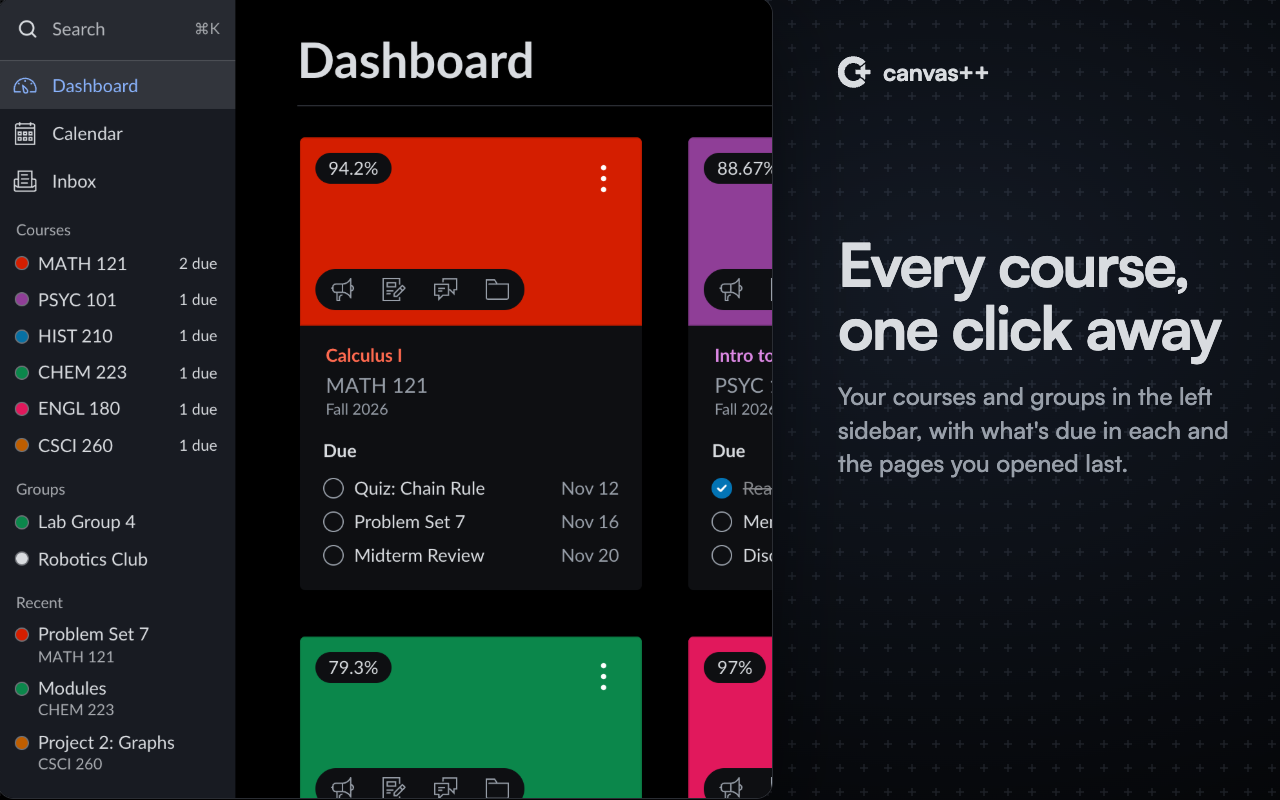
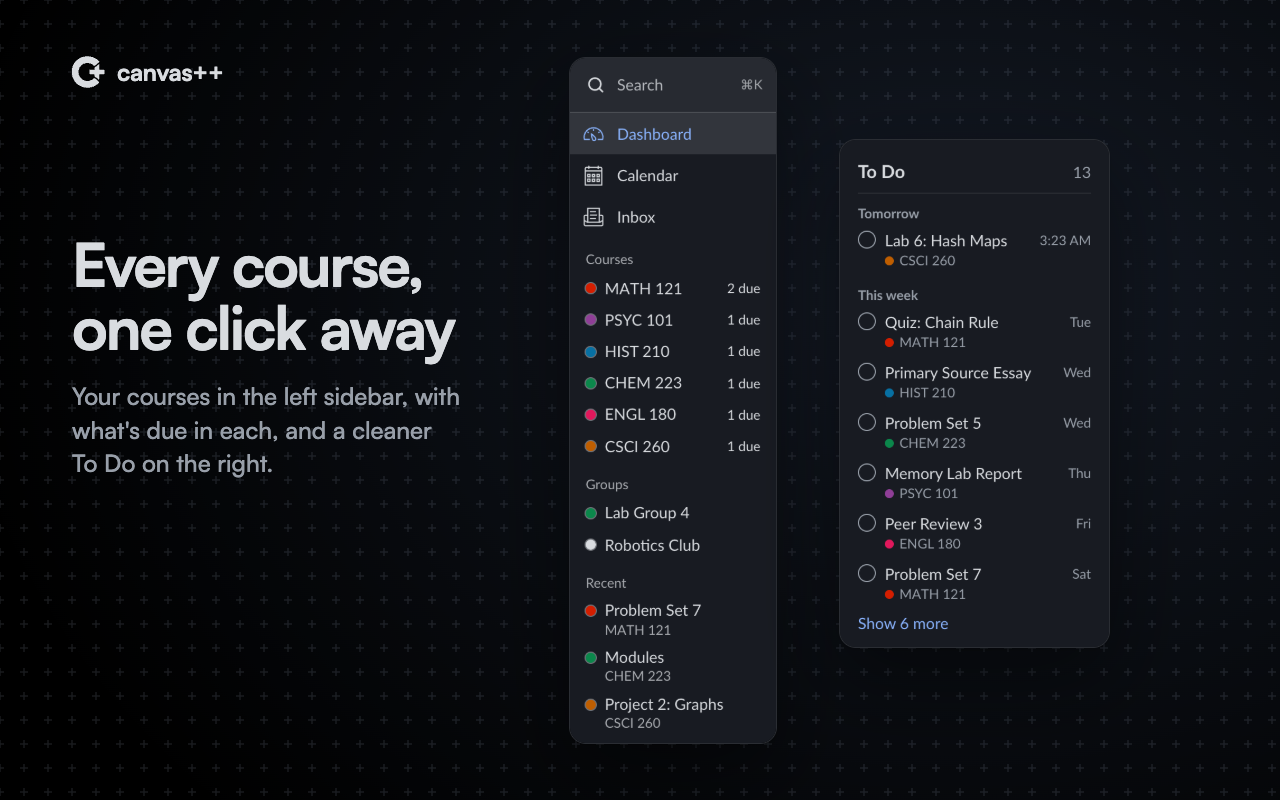
Show the new search and both sidebars in the store images
The search slide shows the two-line results: "midterm" finds work due in
a few hours and work due tomorrow, each still to hand in, among pages and
announcements. The demo answers the user's id the search now asks for,
and gives the search assignments of its own, so the cards don't change.

The sidebar slide shows the course sidebar and the To Do as two panels
beside its copy, in place of a dashboard cut off at the slide's edge. The
To Do is taken on the sidebar's color, so the two panels match.

The listing's search line says late and soon-due work is marked.

diff --git a/design/store-demo.ts b/design/store-demo.ts
@@ -17,6 +17,12 @@ const DAY = 24 * 60 * 60 * 1000;
 // six hours on, so work due today counts as upcoming, not past
 const inDays = (days: number) =>
   new Date(Date.now() + days * DAY + 6 * 60 * 60 * 1000).toISOString();
+// 11:59 PM that many days on, as Canvas has things due
+const endOfDay = (days: number) => {
+  const day = new Date(Date.now() + days * DAY);
+  day.setHours(23, 59, 0, 0);
+  return day.toISOString();
+};
 
 interface DemoCourse {
   id: string;
@@ -155,9 +161,23 @@ const scores = COURSES.map((c) => ({
   enrollments: [{ type: 'student', computed_current_score: c.score }],
 }));
 
-// What the search finds past the dashboard, by course: a module page, and
-// announcements, each posted some days ago. A search for "midterm" finds the
-// Exam 2 guide by what it says.
+// What the search finds past the dashboard, by course: assignments that
+// aren't on the cards, a module page, and announcements, each posted some
+// days ago. A search for "midterm" finds work due in a few hours and work due
+// tomorrow, each still to hand in, and the Exam 2 guide by what it says.
+const ASSIGNMENTS: Record<
+  string,
+  [title: string, dueAt: string, quiz: boolean][]
+> = {
+  '103': [
+    [
+      'Midterm Reflection',
+      new Date(Date.now() + 5 * 60 * 60 * 1000).toISOString(),
+      false,
+    ],
+  ],
+  '104': [['Midterm Lab Quiz', endOfDay(1), true]],
+};
 const MODULE_ITEMS: Record<string, [title: string, module: string][]> = {
   '101': [['Midterm Practice Problems', 'Week 8']],
 };
@@ -190,7 +210,20 @@ const ANNOUNCEMENTS: Record<
 
 // GraphQL's answer to the search's two requests, for the course `id`
 const searchItems = (id: string) => ({
-  assignmentsConnection: { nodes: [] },
+  assignmentsConnection: {
+    nodes: (ASSIGNMENTS[id] ?? []).map(([name, dueAt, quiz], i) => ({
+      _id: `${id}-q${String(i)}`,
+      name,
+      dueAt,
+      htmlUrl: `${ORIGIN}/courses/${id}/assignments/${id}-q${String(i)}`,
+      description: null,
+      quiz: quiz ? { _id: `${id}-${String(i)}` } : null,
+      submissionTypes: [quiz ? 'online_quiz' : 'online_text_entry'],
+      submissionsConnection: {
+        nodes: [{ state: 'unsubmitted', excused: null }],
+      },
+    })),
+  },
   modulesConnection: {
     nodes: (MODULE_ITEMS[id] ?? []).map(([title, module], i) => ({
       name: module,
@@ -326,6 +359,7 @@ const UNBRANDED = `
 // the API calls the page and the extension make, with what each answers
 const API: [path: string, json: unknown][] = [
   ['dashboard/dashboard_cards**', cards],
+  ['users/self', { id: '1' }],
   ['users/self/colors', { custom_colors: colors }],
   ['users/self/groups?**', groups],
   ['users/self/history**', history],
@@ -351,7 +385,7 @@ export async function openDashboard(page: Page): Promise<void> {
   for (const [path, json] of API) {
     await page.route(`${ORIGIN}/api/v1/${path}`, (r) => r.fulfill({ json }));
   }
-  // the search's, each course under an alias
+  // the search's, each course under an alias beside the user's id
   await page.route(`${ORIGIN}/api/graphql`, (r) => {
     const { query, variables } = r.request().postDataJSON() as {
       query: string;
@@ -361,7 +395,9 @@ export async function openDashboard(page: Page): Promise<void> {
       ? searchPosts
       : searchItems;
     const data = Object.fromEntries(
-      Object.entries(variables).map(([alias, id]) => [alias, answer(id)]),
+      Object.entries(variables)
+        .filter(([name]) => name !== 'userId')
+        .map(([alias, id]) => [alias, answer(id)]),
     );
     return r.fulfill({ json: { data } });
   });

diff --git a/design/store-slides.ts b/design/store-slides.ts
@@ -15,6 +15,10 @@ export type Theme = (typeof THEMES)[number];
 // the theme the search's slide wears
 export const SEARCH_THEME: Theme = 'rose';
 
+// the theme the sidebars' slide wears, and the scale both sidebars share
+const SIDEBAR_THEME: Theme = 'oled';
+const SIDEBARS_SCALE = 1.12;
+
 // the size of the dashboard in the shots
 export const VIEWPORT = { width: 1440, height: 900 };
 
@@ -35,7 +39,12 @@ export interface Palette {
 }
 
 export interface Shots {
-  looks: Record<Theme, { shot: Buffer; palette: Palette }>;
+  // each theme's dashboard, and its To Do on its left sidebar's color, with
+  // the To Do's width on the page
+  looks: Record<
+    Theme,
+    { shot: Buffer; palette: Palette; todo: { shot: Buffer; width: number } }
+  >;
   regions: { cards: Box[] };
   // the search box, open with its results
   search: Buffer;
@@ -195,17 +204,30 @@ export function slides({ looks, regions, search, popups }: Shots): Image[] {
           ${crop('dark', { x: 0, y: 0, width: VIEWPORT.width, height: 730 }, 0.79)}
         </div>`,
     },
-    themed('screenshots/2-sidebar.png', 'oled', {
-      left: 838,
+    themed('screenshots/2-sidebar.png', SIDEBAR_THEME, {
+      left: 72,
       top: 232,
-      width: 400,
+      width: 390,
       headline: 'Every course,<br>one click away',
-      text: "Your courses and groups in the left sidebar, with what's due in each and the pages you opened last.",
-      art: float(
-        crop('oled', { x: 0, y: 0, width: 600, height: 620 }, 1.29),
-        -2,
-        -2,
-      ),
+      text: "Your courses in the left sidebar, with what's due in each, and a cleaner To Do on the right.",
+      // the left sidebar down to the pages opened last, and the To Do on its
+      // color, both at the same scale
+      art:
+        float(
+          crop(
+            SIDEBAR_THEME,
+            { x: 0, y: 0, width: 184, height: 612 },
+            SIDEBARS_SCALE,
+          ),
+          570,
+          58,
+        ) +
+        popup(
+          looks[SIDEBAR_THEME].todo.shot,
+          looks[SIDEBAR_THEME].todo.width * SIDEBARS_SCALE,
+          840,
+          140,
+        ),
     }),
     themed('screenshots/3-cards.png', 'ember', {
       left: 72,
@@ -228,8 +250,8 @@ export function slides({ looks, regions, search, popups }: Shots): Image[] {
       top: 250,
       width: 390,
       headline: 'Search all<br>your courses',
-      text: 'Press ⌘K and type to jump to a course, assignment, page or announcement.',
-      art: popup(search, 740, 492, 222),
+      text: "Press ⌘K to jump to any course, assignment, page or announcement. What's due soon stands out.",
+      art: popup(search, 740, 492, 138),
     }),
     themed('screenshots/5-control.png', 'sea', {
       left: 72,

diff --git a/design/store-images.ts b/design/store-images.ts
@@ -6,7 +6,7 @@
 //
 // Look over every image before uploading: they're meant to hold no real data.
 
-import type { BrowserContext, Locator } from '@playwright/test';
+import type { BrowserContext, Locator, Page } from '@playwright/test';
 import { mkdirSync } from 'node:fs';
 import { resolve } from 'node:path';
 import { extensionId, launchWithExtension } from '../tests/chrome.ts';
@@ -77,8 +77,24 @@ async function dashboard(context: BrowserContext, theme: Theme) {
     };
   });
   const shot = await page.screenshot();
+  const todo = await todoShot(page);
   await page.close();
-  return { look: { shot, palette }, regions };
+  return { look: { shot, palette, todo }, regions };
+}
+
+// The To Do in the dashboard's right sidebar, on the left sidebar's color
+// rather than the page's, so the two match when a slide shows them side by
+// side. Taken last: the color stays on the page.
+async function todoShot(page: Page) {
+  await page.addStyleTag({
+    content: `.cpp-todo {
+      background: var(--cpp-nav) !important;
+      padding: 16px 16px 12px !important;
+    }`,
+  });
+  const todo = page.locator('.cpp-todo');
+  const { width } = await box(todo);
+  return { shot: await todo.screenshot(), width };
 }
 
 // The search box over the dashboard, with "midterm" typed and its results in.

diff --git a/store/listing.md b/store/listing.md
@@ -21,7 +21,7 @@ canvas++ restyles Canvas and adds a few things it's missing, with more on the wa
 • Grades on cards: each dashboard card shows your current grade in that course.
 • Assignments on cards: each card lists what's due. Check something off there and Canvas marks it done in your To Do list too.
 • Courses in the left sidebar: your courses and groups one click away, with what's due in each and the pages you opened last.
-• Search: press ⌘K on a Mac, or Ctrl+K elsewhere, on any Canvas page to find a course, assignment, module page or announcement. It also searches what they say.
+• Search: press ⌘K on a Mac, or Ctrl+K elsewhere, on any Canvas page to find a course, assignment, module page or announcement. It also searches what they say, and work that's late or due soon is marked in red.
 
 It works right away on any Canvas at *.instructure.com. If your school uses its own address, like canvas.yourschool.edu, open Canvas, click the canvas++ button and choose Enable.
 
